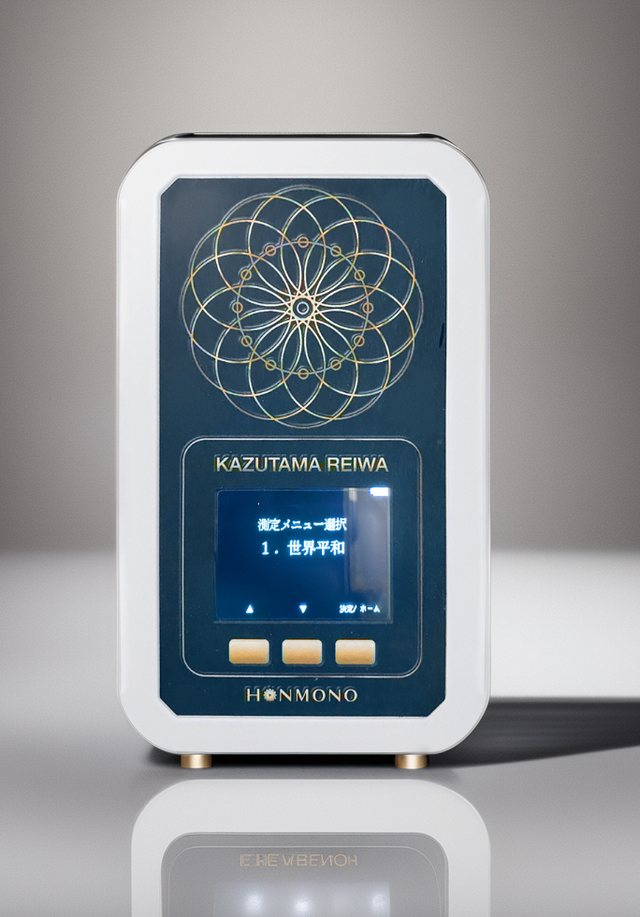
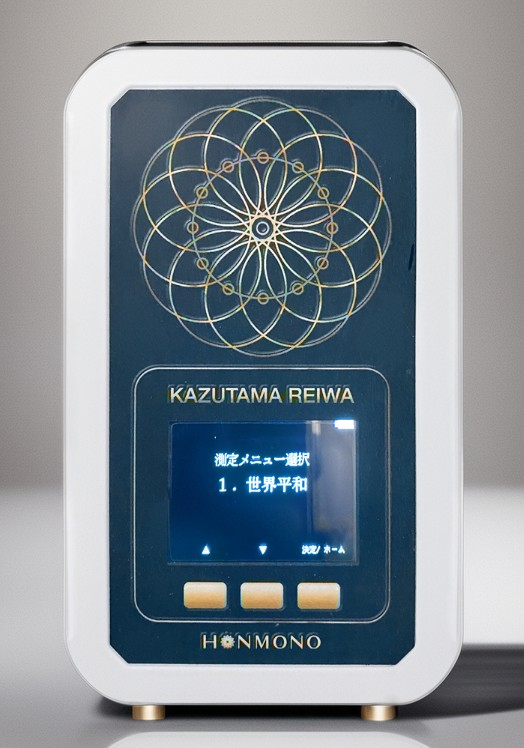
数霊REIWAの商品写真を切り直し、ZENWA・空と同じ大きさに見えるようにする
本体が写真の高さの約95%になるよう元画像（image_5iT.png）からトリミング。

diff --git a/index.html b/index.html
@@ -36,7 +36,7 @@
       </div>
       <div class="hero-picks">
         <a class="pick" href="#reiwa">
-          <img src="assets/img/product_reiwa.jpg" width="640" height="917" alt="数霊REIWA">
+          <img src="assets/img/product_reiwa.jpg" width="524" height="748" alt="数霊REIWA">
           <span class="pick-name">数霊REIWA</span>
           <span class="pick-price" data-price="reiwa">—</span>
           <span class="pick-go">詳しく見る ›</span>
@@ -140,7 +140,7 @@
         </article>
 
         <article class="product" id="reiwa">
-          <img class="product-img" src="assets/img/product_reiwa.jpg" width="500" height="800" alt="数霊REIWA">
+          <img class="product-img" src="assets/img/product_reiwa.jpg" width="524" height="748" alt="数霊REIWA">
           <span class="tag">定番</span>
           <h3>数霊REIWA</h3>
           <p class="reading">かずたま れいわ</p>
